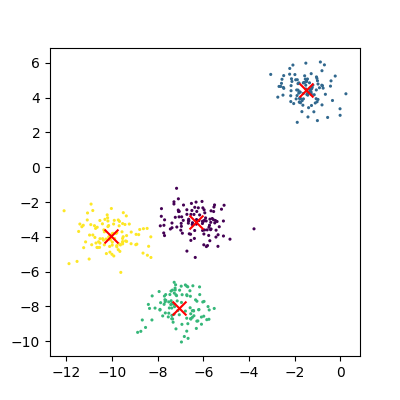
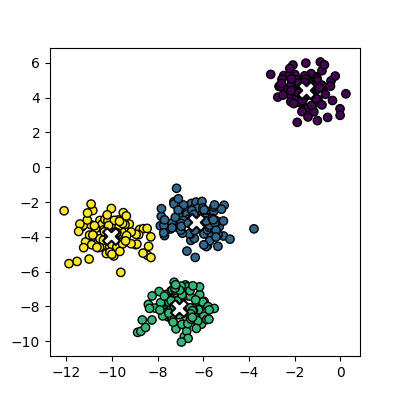
add a section on dbscan to the clustering episode

diff --git a/episodes/05-clustering.md b/episodes/05-clustering.md
@@ -70,22 +70,15 @@ Now lets create some random blobs using the `make_blobs` function. The `n_sample
 ```python
 import matplotlib.pyplot as plt
 
-#Lets define some functions here to avoid repetitive code
-def plots_labels(data, labels):
+# Lets define a plotting function for ourselves.
+def plot_clusters(data, labels, centers=None):
     tx = data[:, 0]
     ty = data[:, 1]
-
     fig = plt.figure(1, figsize=(4, 4))
     plt.scatter(tx, ty, edgecolor='k', c=labels)
-    plt.show()
-
-def plot_clusters(data, clusters, Kmean):
-    tx = data[:, 0]
-    ty = data[:, 1]
-    fig = plt.figure(1, figsize=(4, 4))
-    plt.scatter(tx, ty, s=5, linewidth=0, c=clusters)
-    for cluster_x, cluster_y in Kmean.cluster_centers_:
-        plt.scatter(cluster_x, cluster_y, s=100, c='r', marker='x')
+    if centers is not None:
+        for cluster_x, cluster_y in centers:
+            plt.scatter(cluster_x, cluster_y, s=150, c='white', edgecolor='k', linewidths=1.5, marker='X')
     plt.show()
 ```
 
@@ -93,7 +86,7 @@ Lets create the clusters.
 
 ```python
 data, cluster_id = skl_datasets.make_blobs(n_samples=400, cluster_std=0.75, centers=4, random_state=1)
-plots_labels(data, cluster_id)
+plot_clusters(data, cluster_id)
 ```
 
 ![Plot of the random clusters](fig/random_clusters.png){alt="A scatter plot of randomly generated clusters. The points are coloured by their cluster id, with four distinct clusters visible."}
@@ -109,7 +102,7 @@ clusters = Kmean.predict(data)
 The data can now be plotted to show all the points we randomly generated. To make it clearer which cluster points have been classified we can set the colours (the c parameter) to use the `clusters` list that was returned by the `predict` function. The Kmeans algorithm also lets us know where it identified the centre of each cluster. These are stored as a list called 'cluster_centers_' inside the `Kmean` object. Let's plot the points from the clusters, colouring them by the output from the K-means algorithm, and also plot the centres of each cluster as a red X.
 
 ```
-plot_clusters(data, clusters, Kmean)
+plot_clusters(data, clusters, Kmean.cluster_centers_)
 ```
 
 ![Plot of the fitted random clusters](fig/random_clusters_centre.png){alt="A scatter plot of the random clusters, with the points coloured by their cluster id. The centres of each cluster are marked with a red X."}
@@ -127,7 +120,7 @@ Kmean = skl_cluster.KMeans(n_clusters=4)
 Kmean.fit(data)
 clusters = Kmean.predict(data)
 
-plot_clusters(data, clusters, Kmean)
+plot_clusters(data, clusters, Kmean.cluster_centers_)
 ```
 
 ::: callout
@@ -197,6 +190,117 @@ We might look at a measure of similarity to test if this single cluster is actua
 
 :::::::::::::::::::::::::::::::::::::::::::::::
 
+## DBSCAN
+
+### Disadvanges of K-means
+
+Kmeans seems to work pretty well for our contrived example of blobs of data, but let's look at
+exactly why it struggles with irregular clusters. For the next section, we'll use the `make_moons`
+function to generate our data. This will create two interleaving half circles.
+
+```python
+data, cluster_id = skl_datasets.make_moons(n_samples=400, noise=0.1, random_state=1)
+plots_labels(data, cluster_id)
+```
+
+![](fig/moons_dataset.png){alt="A scatter plot of the moons dataset, with the points coloured by their cluster id. The data forms two interleaving half circles."}
+
+Next, let's try to use Kmeans on this data the same way we did before.
+
+```python
+Kmean = skl_cluster.KMeans(n_clusters=2)
+Kmean.fit(data)
+clusters = Kmean.predict(data)
+plot_clusters(data, clusters, Kmean.cluster_centers_)
+```
+
+![](fig/kmeans_moons.png){alt="A scatter plot showing the results of k-means clustering on the moons dataset. The points are coloured by their cluster id, with two interleaving half circles visible. Each half circle of points is partially in one cluster and partially in the other."}
+
+This is an example of exactly what we mean when we say that k-means struggles with irregular
+clusters. The clusters are not circular in nature, and there is no straight line that can be drawn
+to separate them. Luckily, there's another method we can use to cluster this data...
+
+### DBSCAN clustering
+
+DBSCAN stands for **D**ensity **B**ased **S**patial **C**lustering of **A**pplications with
+**N**oise. The general concept is that it looks for clusters of data that are closely packed
+together, and marks points that are far away from any cluster as noise.
+
+The algorithm is iterative, and works like this:
+
+- Define a radius (eps) and a minimum number of points (min_samples) to form a cluster
+- For each point
+  - Find all points within a specified radius (eps)
+    - If a point has more than min_samples neighbors, it is a core point and starts/expands a cluster
+    - If a point has fewer than min_samples neighbors, it is a border point and is added to the nearest cluster
+    - If a point has no neighbors, it is marked as noise
+  - Points that are not core or border points are considered noise
+
+Compared to K-means, this method has several advantages:
+
+- we are able to identify a cluster of arbitrary shape, as membership in a cluster is determined
+    by proximity to the other points of the cluster, rather than proximity to a central point.
+- We can identify noise points that do not belong to any cluster, which can be useful for outlier
+    detection.
+- We do not need to specify the number of clusters in advance, as the algorithm will find as many
+    clusters as there are dense regions in the data.
+
+Let's try it out on our data:
+
+```python
+dbscan = skl_cluster.DBSCAN(min_samples=5, eps=0.18)
+dbscan.fit(data)
+plot_clusters(data, dbscan.labels_)
+```
+
+![](fig/dbscan_moons.png){alt="A scatter plot showing the results of DBSCAN clustering on the moons dataset. The points are coloured by their cluster id, with two interleaving half circles visible. Each half circle of points is correctly identified as a single cluster."}
+
+### Disadvantages of DBSCAN
+
+DBSCAN isn't perfect though, and has some disadvantages:
+
+- It can struggle to identify clusters in data with varying densities, as the eps and min_samples
+    parameters are global and may not be suitable for all clusters.
+- It can be sensitive to the choice of eps and min_samples parameters, which can be difficult to
+    select without prior knowledge of the data.
+- It can struggle with high-dimensional data, as the concept of density becomes less meaningful in
+    high-dimensional spaces.
+
+::: callout
+
+## Selecting Hyper-parameters for DBSCAN
+
+For low dimensionality data, `min_samples` is commonly set to 5. A general rule of thumb for
+high dimensionality data is to set `min_samples` to 2 * number of dimensions.
+
+The `eps` parameter can be selected by plotting the k-distance graph, which shows the distance to
+the k-th nearest neighbor for each point in the dataset. The value of `eps` can be chosen as the
+distance at which there is a significant change in the slope of the graph, indicating a transition
+from dense to sparse regions of the data.
+
+We can create a k-distance graph from our data like this:
+
+```python
+from sklearn.neighbors import NearestNeighbors
+import numpy as np
+
+k = 5  # min_samples for DBSCAN
+nearest_neighbors = NearestNeighbors(n_neighbors=k).fit(data)
+distances, _ = nearest_neighbors.kneighbors(data)
+
+k_distances = np.sort(distances[:, k - 1])[::-1]
+
+plt.plot(k_distances)
+plt.xlabel("Points")
+plt.ylabel(f"{k}-NN Distance")
+plt.title("k-Distance")
+plt.axhline(y=0.18, color='r', linestyle='--')
+plt.show()
+```
+
+![](fig/dbscan_k_distance_plot.png){alt="A line plot showing the k-distance graph for the moons dataset. The x-axis represents the points sorted by distance to their 5th nearest neighbor, and the y-axis represents the distance to the 5th nearest neighbor. A red dashed line is drawn at y=0.18, which is the chosen value for eps."}
+
+:::
 
 ## Spectral clustering
 
